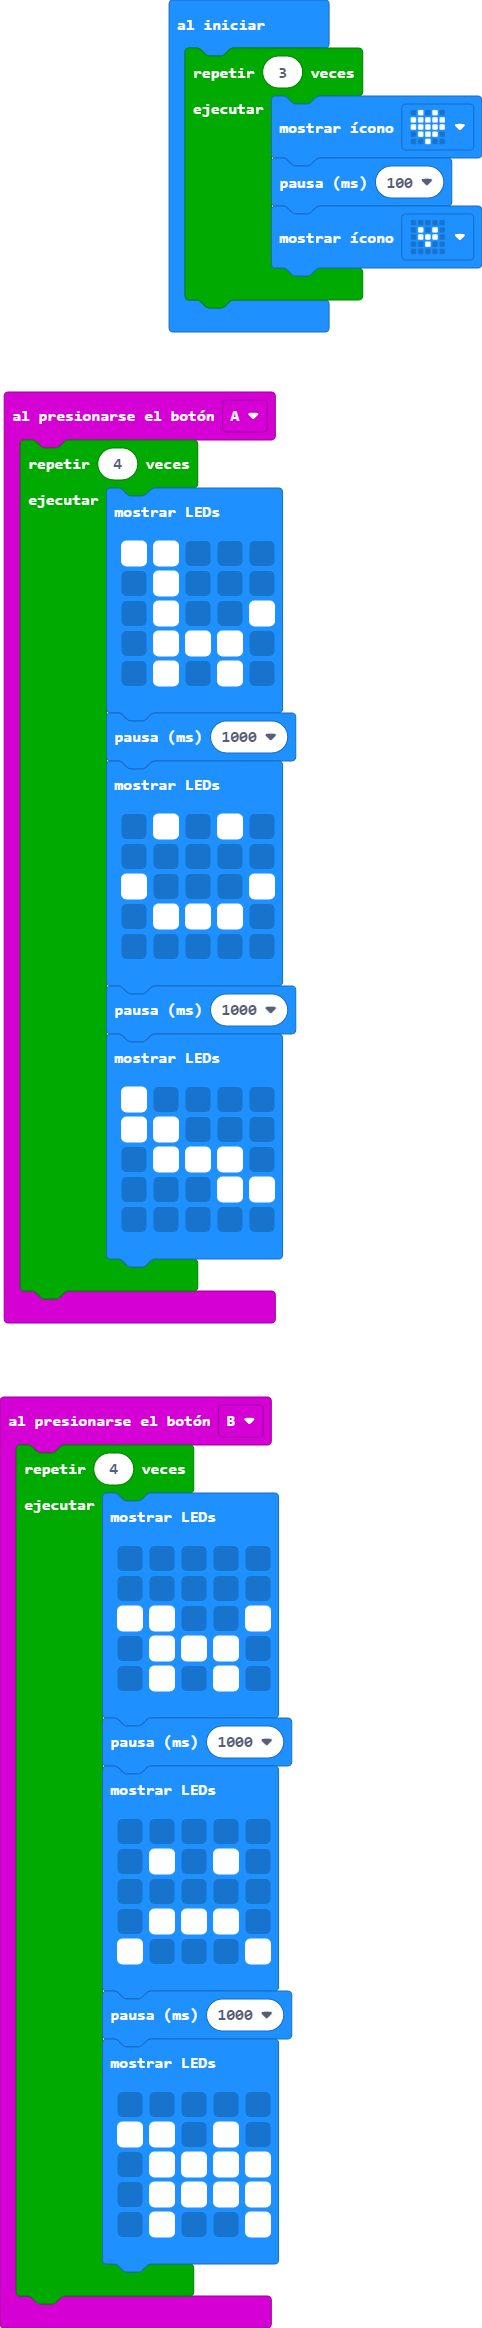
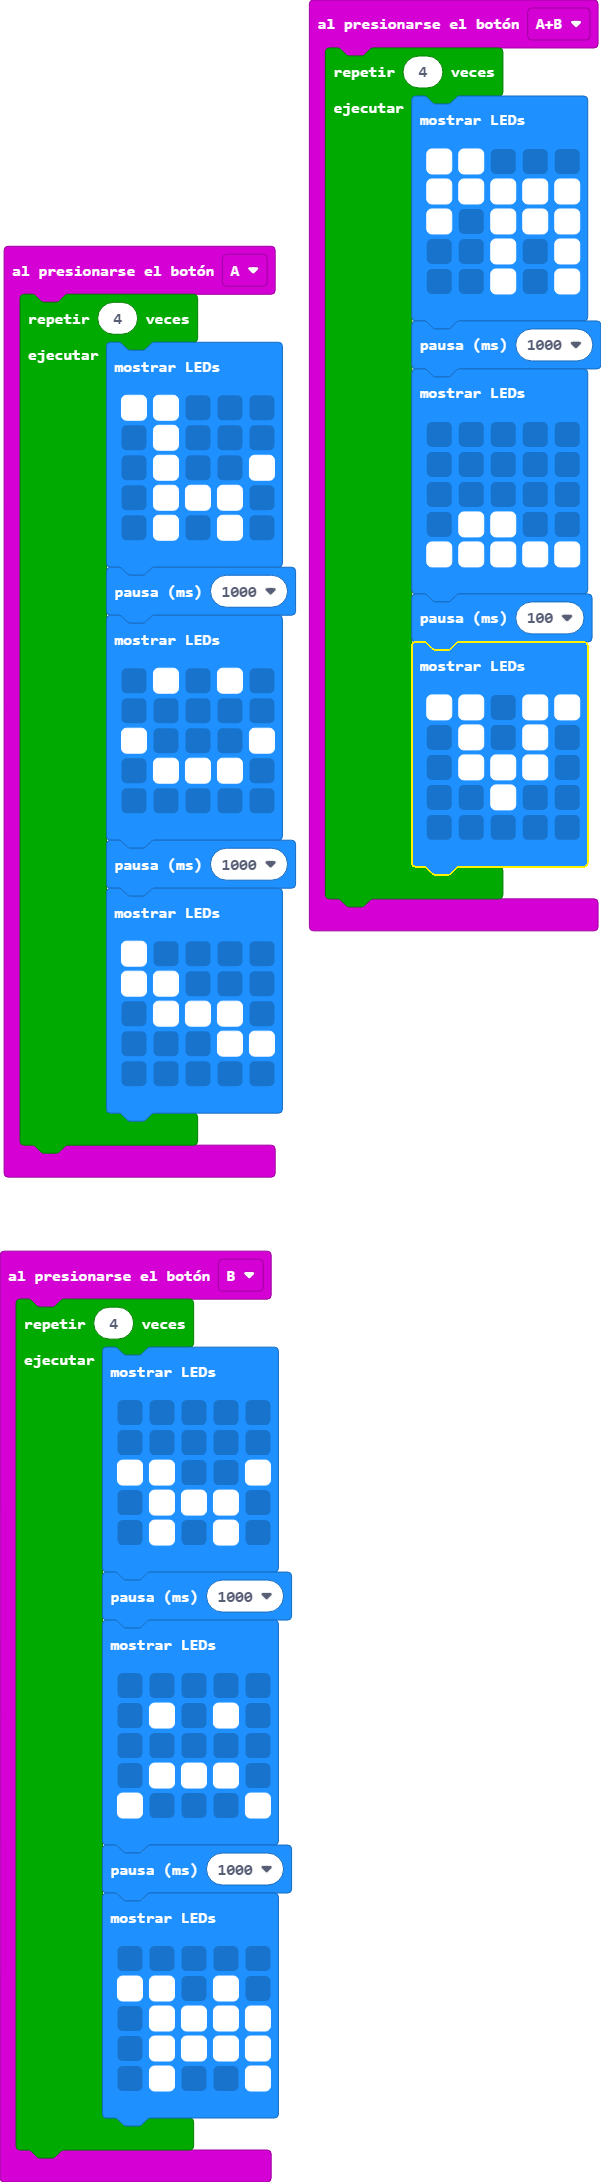
Actualizar main.blocks, main.ts

diff --git a/main.ts b/main.ts
@@ -25,6 +25,33 @@ input.onButtonPressed(Button.A, function () {
             `)
     }
 })
+input.onButtonPressed(Button.AB, function () {
+    for (let index = 0; index < 4; index++) {
+        basic.showLeds(`
+            # # . . .
+            # # # # #
+            # . # # #
+            . . # . #
+            . . # . #
+            `)
+        basic.pause(1000)
+        basic.showLeds(`
+            . . . . .
+            . . . . .
+            . . . . .
+            . # # . .
+            # # # # #
+            `)
+        basic.pause(100)
+        basic.showLeds(`
+            # # . # #
+            . # . # .
+            . # # # .
+            . . # . .
+            . . . . .
+            `)
+    }
+})
 input.onButtonPressed(Button.B, function () {
     for (let index = 0; index < 4; index++) {
         basic.showLeds(`
@@ -52,8 +79,3 @@ input.onButtonPressed(Button.B, function () {
             `)
     }
 })
-for (let index = 0; index < 3; index++) {
-    basic.showIcon(IconNames.Heart)
-    basic.pause(100)
-    basic.showIcon(IconNames.SmallHeart)
-}
